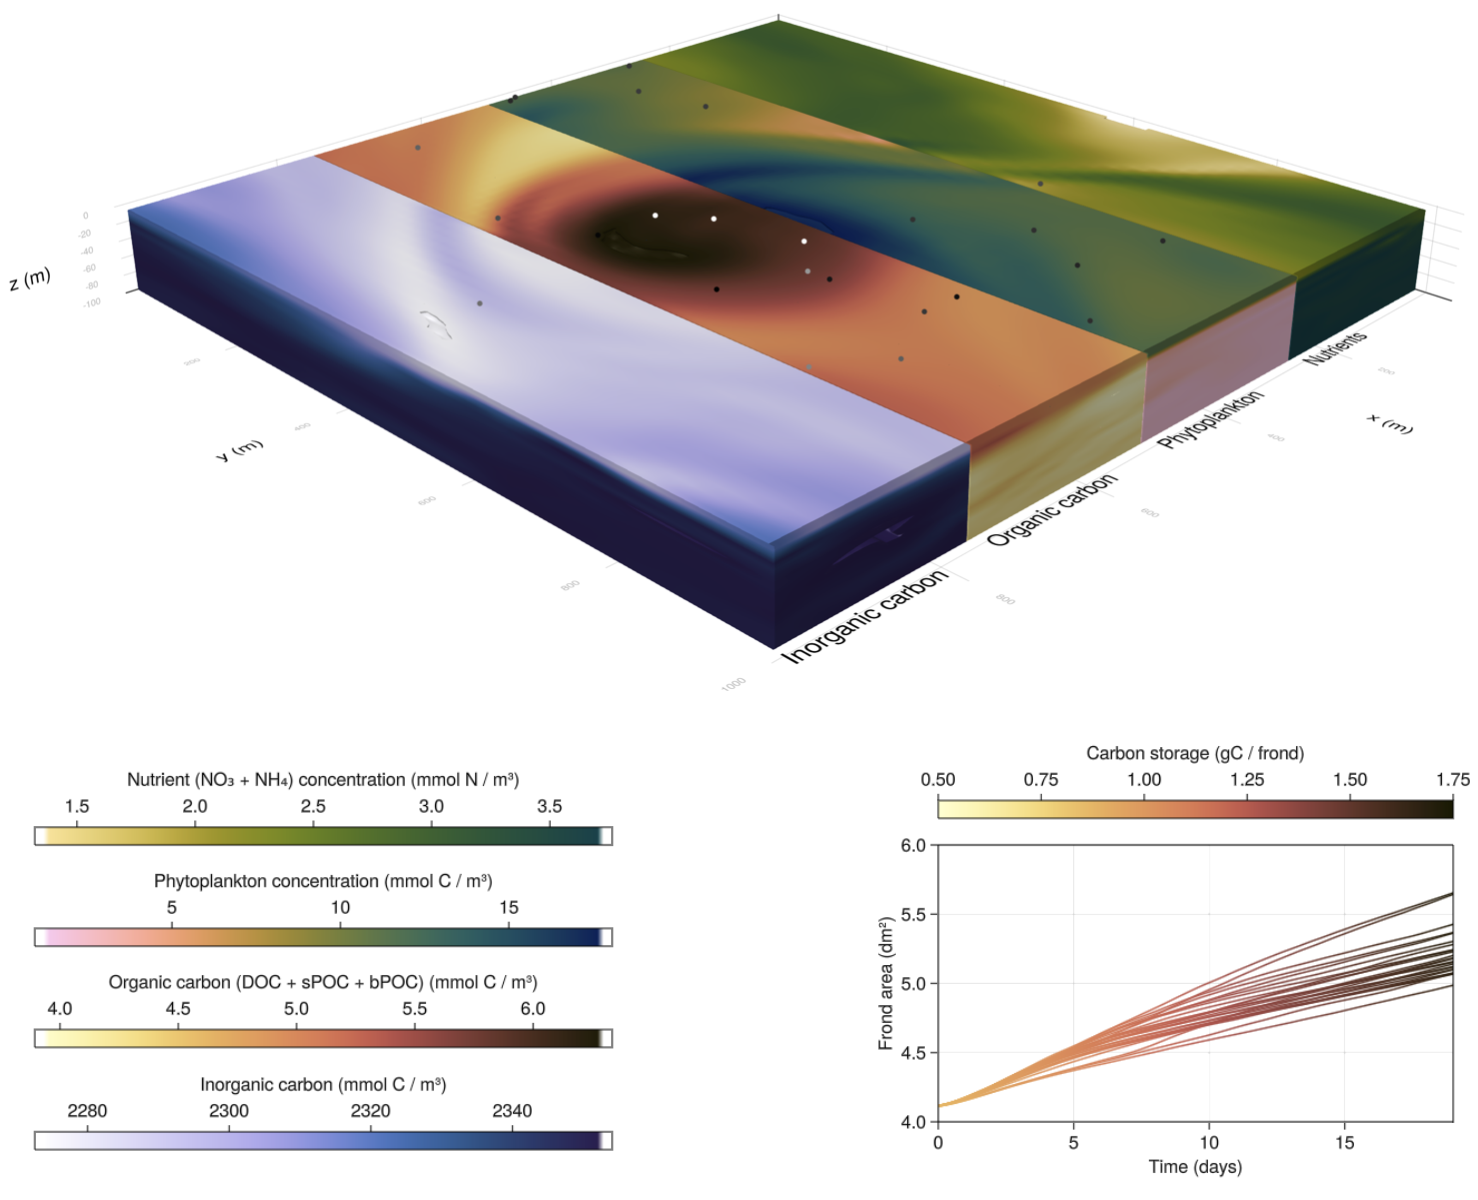
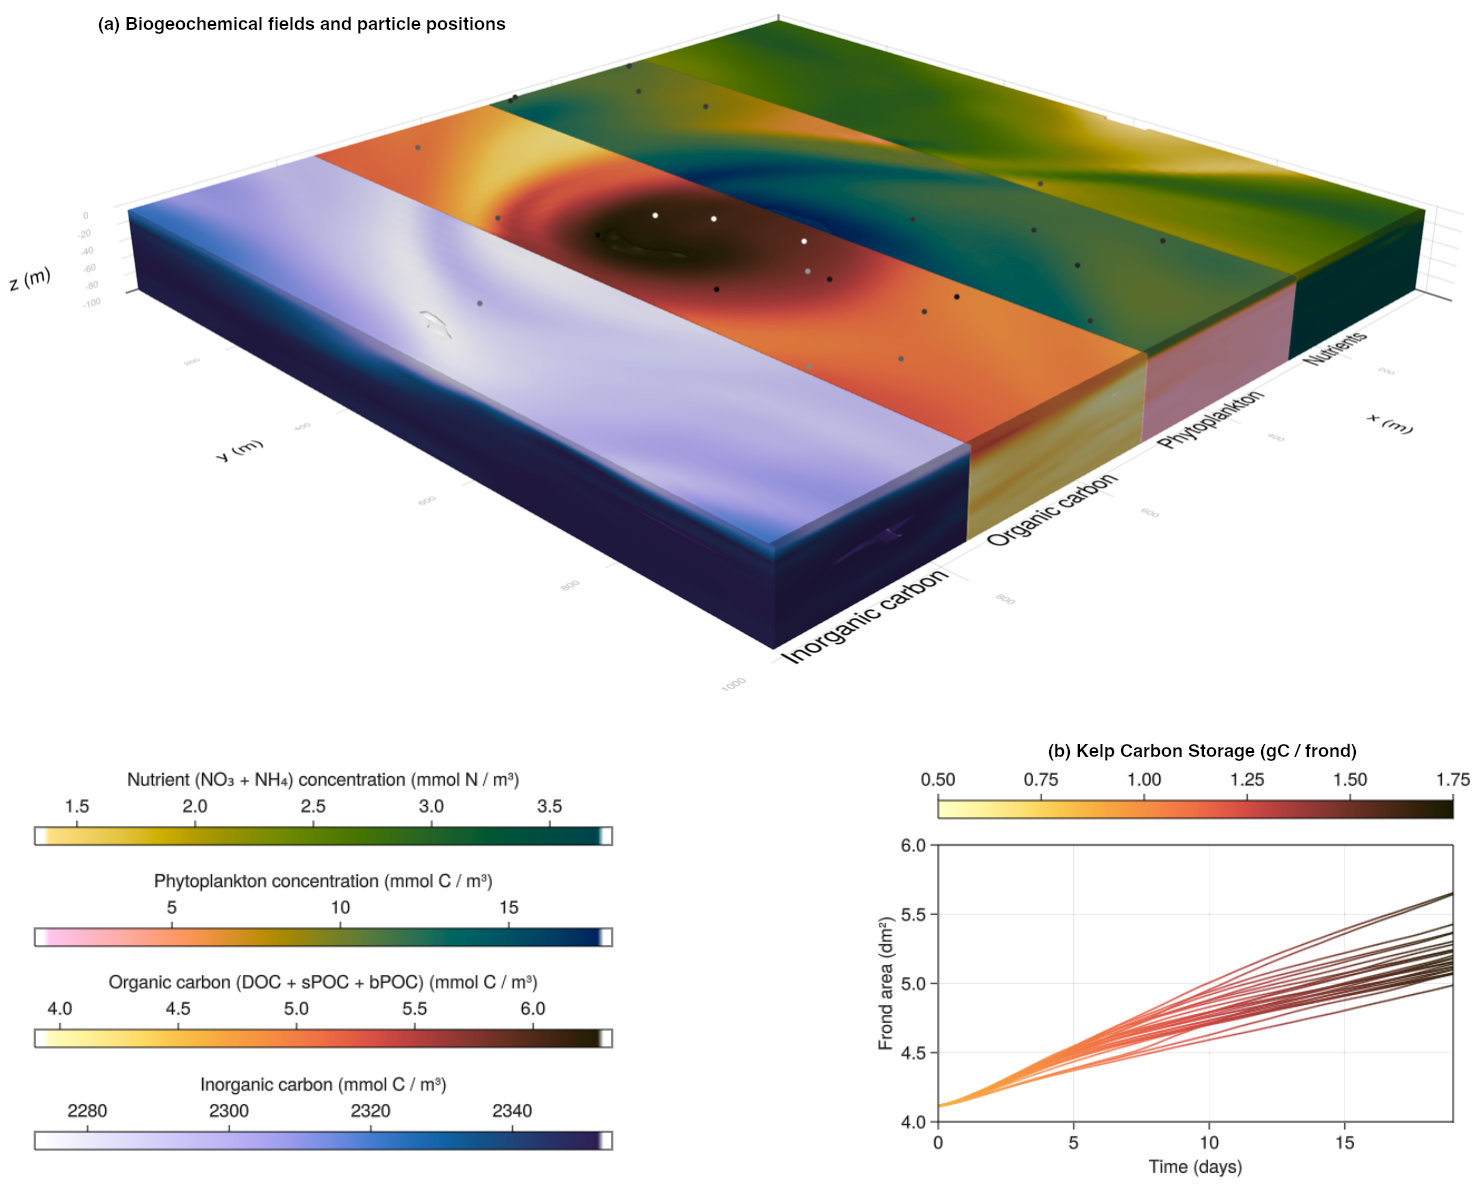
Added more descriptive caption and panel labelling to eady example

diff --git a/paper/paper.md b/paper/paper.md
@@ -68,7 +68,12 @@ An example of a problem involving small-scale flow features is shown in \autoref
 ![Here we replicate the Eady problem where a background buoyancy gradient and corresponding thermal wind generate a sub-mesoscale eddy, roughly following the setup of Taylor (2016).
 To this physical setup, we added a medium complexity (9 tracers) biogeochemical model, some of which are shown above.
 On top of this, we added particles modelling the growth of sugar kelp which are free-floating and advected by the flow, and carbon dioxide exchange from the air.
-Thanks to Julia's speed and efficiency the above model (1 km × 1 km × 100 m with 64 × 64 × 16 grid points) took about 30 minutes of computing time to simulate 10 days of evolution on an Nvidia P100 GPU. Figure made with `Makie.jl` [@makie]. \label{eady}](eady_example.png)
+Thanks to Julia's speed and efficiency the above model (1 km × 1 km × 100 m with 64 × 64 × 16 grid points) took about 30 minutes of computing time to simulate 10 days of evolution on an Nvidia P100 GPU. 
+Panel (a) shows the domain with the colour representing the concentration of various biogeochemical tracer fields: inorganic carbon, organic carbon (dissolved and particulate), phytoplankton, and nutrients. 
+The increase in concentration in the centre of the eddy can be seen, as well as carbon being subducted (most visible in the xz face in the organic carbon).
+Additionally, points on the surface represent the kelp particle positions, with the colour representing the range of frond size.
+Panel (b) shows the carbon stored in each kelp frond, highlighting the variability depending on the nutrition availability in each particle's location history.
+Figure made with `Makie.jl` [@makie]. \label{eady}](eady_example.png)
 
 ``OceanBioME.jl`` is built with a highly modular design that allows user control and customization.
 There are two distinct module types implemented in ``OceanBioME.jl``:
@@ -124,9 +129,9 @@ Additionally, Strong-Wright (In prep.) is using the coupling of both the biogeoc
 
 | Example      | OceanBioME features utilised     | Code location |
 |--------------|--------------|---------------|
-| Sub-mesoscale eddy | LOBSTER biogeochemical model (`LOBSTER`) with carbonate model active, CO₂ exchange with the air (`GasExchange`), Light attenuation (`TwoBandPhotosyntheticallyActiveRadiation`), mass conserving negativity protection (`ScaleNegativeTracers`)| `examples/eady.jl` with resolution increased to 64x64x16, plotting script at `paper/figures/eady-fig.jl`|
+| Sub-mesoscale eddy | LOBSTER biogeochemical model (`LOBSTER`) with carbonate model active, CO₂ exchange with the air (`GasExchange`), Light attenuation (`TwoBandPhotosyntheticallyActiveRadiation`), mass conserving negativity protection (`ScaleNegativeTracers`)| `examples/eady.jl` with resolution increased to 64x64x16|
 | Near-global | NPZD model (`NutrientPhytoplanktonZooplanktonDetritus`), Light attenuation (`TwoBandPhotosyntheticallyActiveRadiation`)| Work in progress, available upon request/for collaboration |
-| Idealised 1D model with kelp individuals |  LOBSTER biogeochemical model (`LOBSTER`) with carbonate model and variable Redfield ratio for organic components active, CO₂ exchange with the air (`GasExchange`), Light attenuation (`TwoBandPhotosyntheticallyActiveRadiation`), Saccharina Latissima (sugar kelp) model (`SLatissima`), mass conserving negativity protection (`ScaleNegativeTracers`) | `paper/figures/column.jl`, plotting script at `paper/figures/column-fig.jl` |
+| Idealised 1D model with kelp individuals |  LOBSTER biogeochemical model (`LOBSTER`) with carbonate model and variable Redfield ratio for organic components active, CO₂ exchange with the air (`GasExchange`), Light attenuation (`TwoBandPhotosyntheticallyActiveRadiation`), Saccharina Latissima (sugar kelp) model (`SLatissima`), mass conserving negativity protection (`ScaleNegativeTracers`) | `paper/figures/column.jl`, similar to `examples/column.jl` and `examples/kelp.jl` |
 <!---
 TODO: add eady plotting script
 --->
